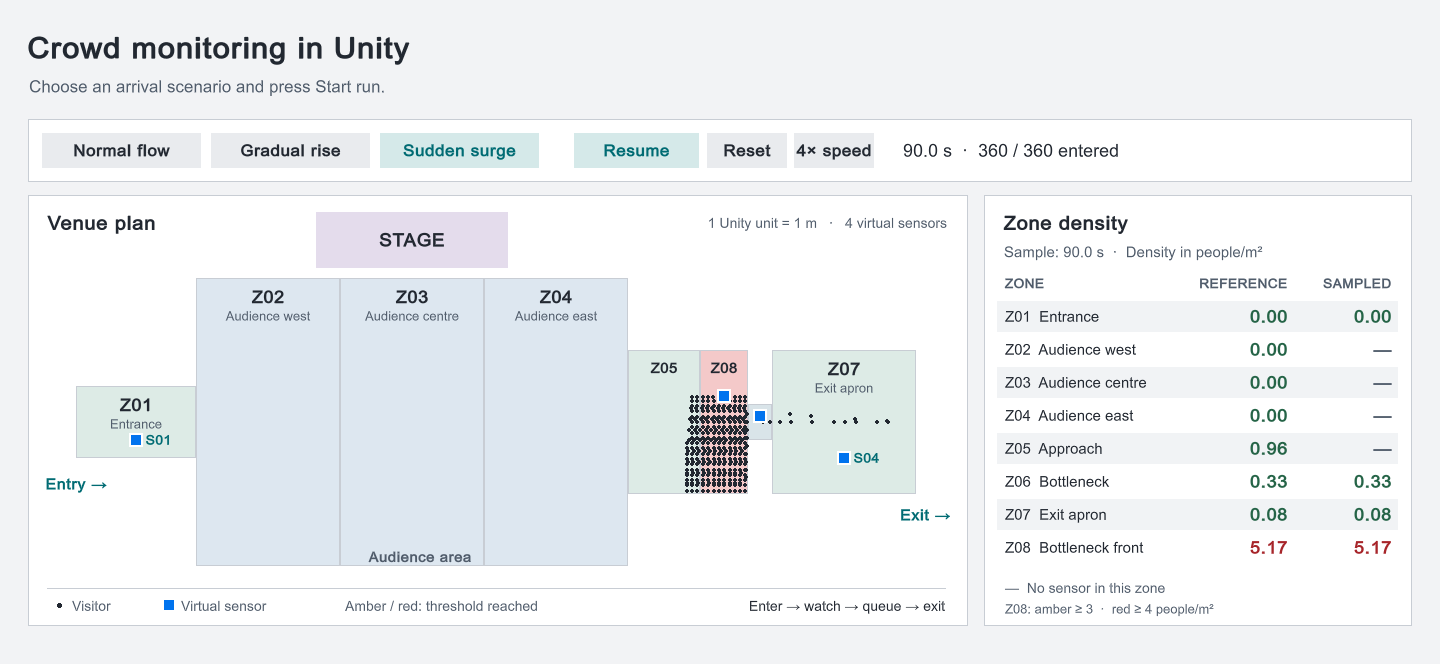
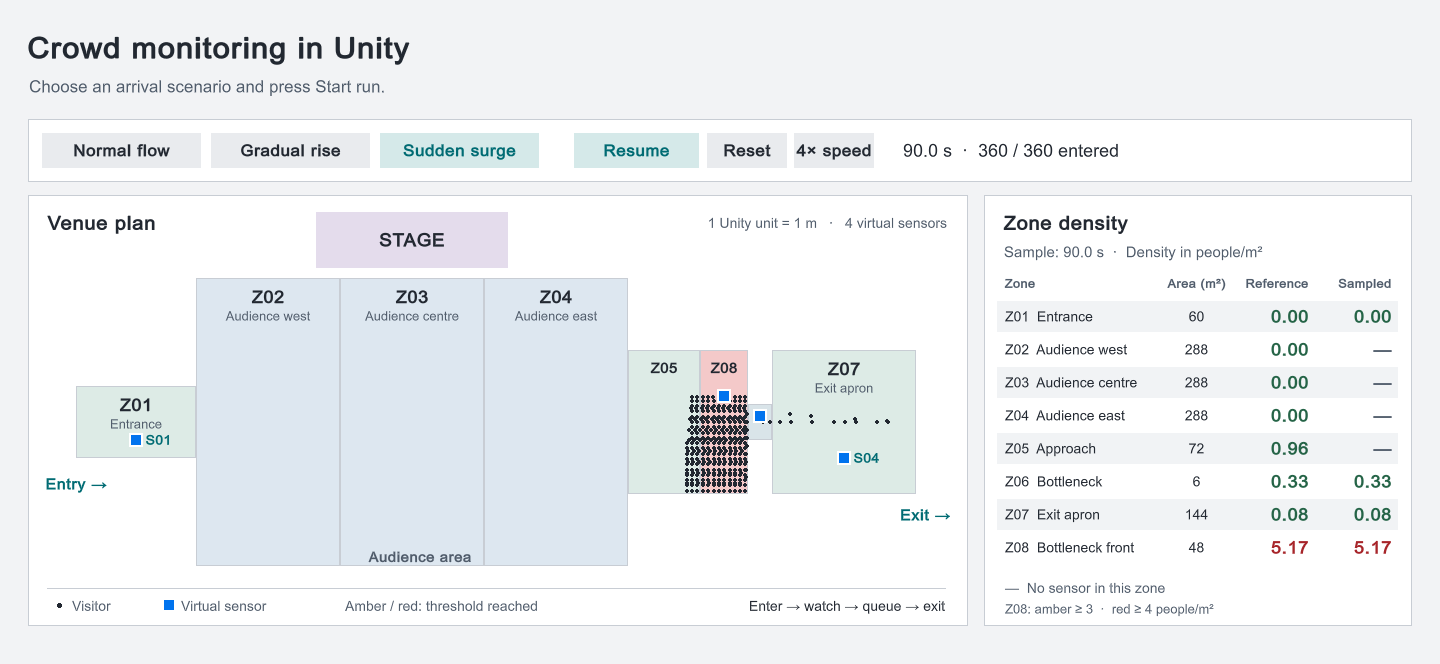
Show zone areas in the Unity demo

diff --git a/ConcertVenue/Assets/Scripts/VenueCamera.cs b/ConcertVenue/Assets/Scripts/VenueCamera.cs
@@ -165,16 +165,18 @@ namespace CrowdVenue
             Card(984, 195, 428, 431);
             Label(1004, 208, 386, 30, "Zone density", 19, White, true);
             Label(1004, 240, 386, 24, $"Sample: {model.SampleTime:0.0} s  ·  Density in people/m²", 15, Muted);
-            Label(1005, 273, 196, 21, "ZONE", 13, Muted, true);
-            Label(1191, 273, 96, 21, "REFERENCE", 13, Muted, true, TextAnchor.MiddleRight);
-            Label(1299, 273, 92, 21, "SAMPLED", 13, Muted, true, TextAnchor.MiddleRight);
+            Label(1005, 273, 156, 21, "Zone", 12, Muted, true);
+            Label(1164, 273, 65, 21, "Area (m²)", 12, Muted, true, TextAnchor.MiddleCenter);
+            Label(1229, 273, 79, 21, "Reference", 12, Muted, true, TextAnchor.MiddleRight);
+            Label(1299, 273, 92, 21, "Sampled", 12, Muted, true, TextAnchor.MiddleRight);
             int i = 0;
             foreach (var r in model.Zones.OrderBy(row => row.Zone.id, StringComparer.Ordinal))
             {
                 float y = 301 + i * 33;
                 if (i % 2 == 0) Box(new Rect(997, y, 401, 31), Hex(0xf1f3f5));
-                Label(1005, y, 196, 31, r.Zone.id + "  " + r.Zone.name, 15, White);
-                Label(1191, y, 96, 31, $"{r.Density:0.00}", 17, AlertColor(r.Reference), true, TextAnchor.MiddleRight);
+                Label(1005, y, 156, 31, r.Zone.id + "  " + r.Zone.name, 14, White);
+                Label(1164, y, 65, 31, $"{r.Zone.area_m2:0.##}", 14, White, false, TextAnchor.MiddleCenter);
+                Label(1229, y, 79, 31, $"{r.Density:0.00}", 17, AlertColor(r.Reference), true, TextAnchor.MiddleRight);
                 Label(1294, y, 97, 31, r.Sensor == null ? "—" : $"{r.SampleDensity:0.00}", 17,
                     r.Sensor == null ? Muted : AlertColor(r.Observed), true, TextAnchor.MiddleRight);
                 i++;

diff --git a/docs/venue/week-7.md b/docs/venue/week-7.md
@@ -1,23 +1,13 @@
-# Week 7 — Unity progress
+# Week 7 results
 
-In Week 6, the venue was a static map. It now runs three scenarios from the project proposal: normal flow, gradual rise and sudden surge. Each run has 360 visitors. The arrival rate changes, but the venue, time spent watching and exit capacity stay the same.
+The Unity demo uses the shared venue layout and synthetic visitor data. All three runs use 360 visitors; only the arrival rate changes. Four virtual sensors take a count every five seconds. All visitors exited in each run.
 
-Visitors are shown as dots. They enter, stop in the audience area and then leave through the bottleneck. The 2D view labels the entrance, stage, exit, all eight zones and four virtual sensors.
+- **Normal flow:** Z08 peaked at **0.38 people/m²** and stayed below red.
+- **Gradual rise:** Z08 peaked at **4.44 people/m²**. The first red reading was **149.55 s** in the reference and **155.00 s** in the sample.
+- **Sudden surge:** Z08 peaked at **5.17 people/m²**. The first red reading was **70.55 s** in the reference and **75.00 s** in the sample.
 
-## What we compare
+The red threshold was reached before the passage (Z08) in two runs. Inside the passage (Z06), density stayed at or below **1.00 people/m²**. In the surge, the sample detected the red threshold **4.45 s** after the reference. These are simulation results with idealised sensor counts, not measurements from a real event.
 
-**Reference** is the current number of visitors in a zone divided by its area. **Sampled** uses the same count, but updates only every five seconds in Z01, Z08, Z06 and Z07. The other zones have no sample. The shared venue file sets amber at 3 people/m² and red at 4 in moving zones or 4.7 in standing zones. The demo flags current conditions without forecasting.
-
-## What we found
-
-All 360 visitors exited in each Play mode test.
-
-- **Normal flow:** Z08 peaked at **0.38 people/m²** and did not reach red.
-- **Gradual rise:** Z08 peaked at **4.44 people/m²**. The first red reading was at **149.55 s** in the reference and **155.00 s** in the sample.
-- **Sudden surge:** Z08 peaked at **5.17 people/m²**. The first red reading was at **70.55 s** in the reference and **75.00 s** in the sample.
-
-The queue built up in **Z08, before the passage**. Z06, the passage itself, stayed at or below 1.00 people/m² in all three runs. In the surge, the sampled reading picked up red 4.45 seconds after the reference. These results describe the simplified Unity model with idealised sensor counts. Real sensors and crowd behaviour have not been validated.
-
-In the saved CSV files, times are simulation seconds and densities are people/m². A blank sensor field means the zone has no sensor; `-1` means the red threshold was never reached.
+In the CSV files, time is in simulation seconds and density is in people/m². A blank sensor field means no sensor is present; `-1` means no red threshold crossing was recorded.
 
 [Unity screenshot](week-7-results/surge-dashboard.png) · [Play mode output](week-7-results/play-mode.txt) · [Surge summary](week-7-results/surge-summary.csv)

diff --git a/docs/venue/README.md b/docs/venue/README.md
@@ -1,14 +1,12 @@
 # Unity crowd demo
 
-Open `ConcertVenue` in Unity **6000.0.23f1**. Keep the `shared` folder next to it. Open `Assets/Scenes/ConcertVenue.unity`, press **Play**, and switch to **Game**.
+Open `ConcertVenue` in Unity **6000.0.23f1**. Keep `shared` next to it. Open `Assets/Scenes/ConcertVenue.unity` and press **Play**.
 
-- **Normal flow:** visitors arrive at a steady rate.
-- **Gradual rise:** the arrival rate increases over time.
-- **Sudden surge:** arrivals start slowly, then jump.
-- **Start run / Pause / Resume / Run again:** start, pause, continue or repeat the selected scenario.
-- **Reset:** clear the run and keep the selected scenario.
+- **Normal flow / Gradual rise / Sudden surge:** choose how visitors arrive. Changing the scenario clears the run.
+- **Start run / Pause / Resume / Run again:** control the selected run.
+- **Reset:** clear the run without changing the scenario.
 - **Speed:** switch between 1×, 4× and 12×.
 
-Picking a scenario clears the current run. **Reference** is the current density; **Sampled** is the last sensor reading, updated every five seconds. A dash means there is no sensor in that zone.
+**Area** is in m². **Reference** is the current density. **Sampled** is the last sensor reading, taken every five seconds. A dash means there is no sensor.
 
-[Week 7 results](week-7.md) · [Verification](verification.txt)
+[Results](week-7.md) · [Checks](verification.txt)

diff --git a/docs/venue/design-decisions.md b/docs/venue/design-decisions.md
@@ -1,6 +1,7 @@
-# Venue design decisions
+# Venue layout
 
-- **Keep the plan readable.** One Unity unit equals one metre. The 2D view shows the stage, entrance, exit, eight monitoring zones and four virtual sensors.
-- **Measure the queue separately.** Z08 covers the final 4 × 12 m before the bottleneck. Z06 is the 2 × 3 m passage. Keeping them separate shows whether people are building up before the passage or inside it. The total accessible area is still 1,194 m².
-- **Use one shared layout.** Zone geometry and thresholds come from the shared JSON. Unity checks zone positions, floor sizes and route markers on startup and asks for a rebuild if they differ.
-- **Keep the comparison simple.** All three runs use the same layout and visitor count. We compare full counts with five-second samples using the same thresholds. Sensor locations are demo choices, not placement recommendations.
+One Unity unit equals one metre. The eight zones cover 1,194 m² in total.
+
+- Z08 covers the queue before the passage (48 m²). Z06 is the passage itself (6 m²). Separate zones show where the crowd builds up.
+- The shared JSON defines boundaries, areas and thresholds. Amber starts at 3 people/m². Red starts at 4 in moving zones and 4.7 in standing zones.
+- Unity checks that the scene matches the shared layout. After changing the geometry, save your work and use **Crowd Venue → Rebuild venue (replaces current scene)**.
